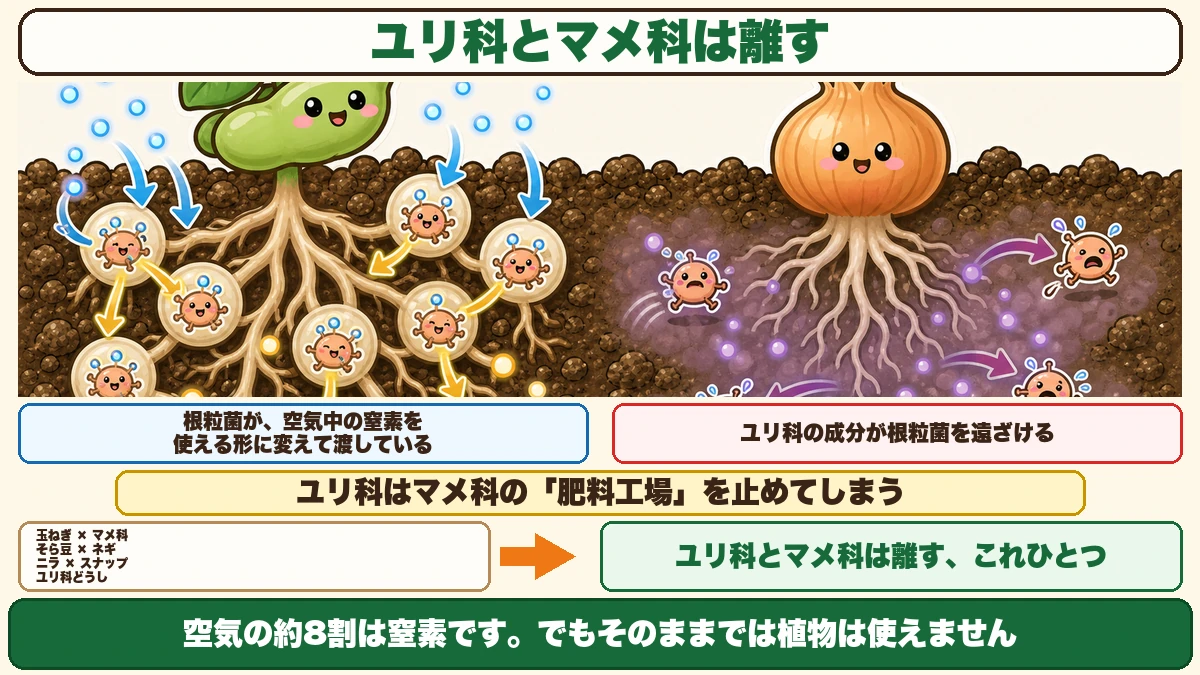
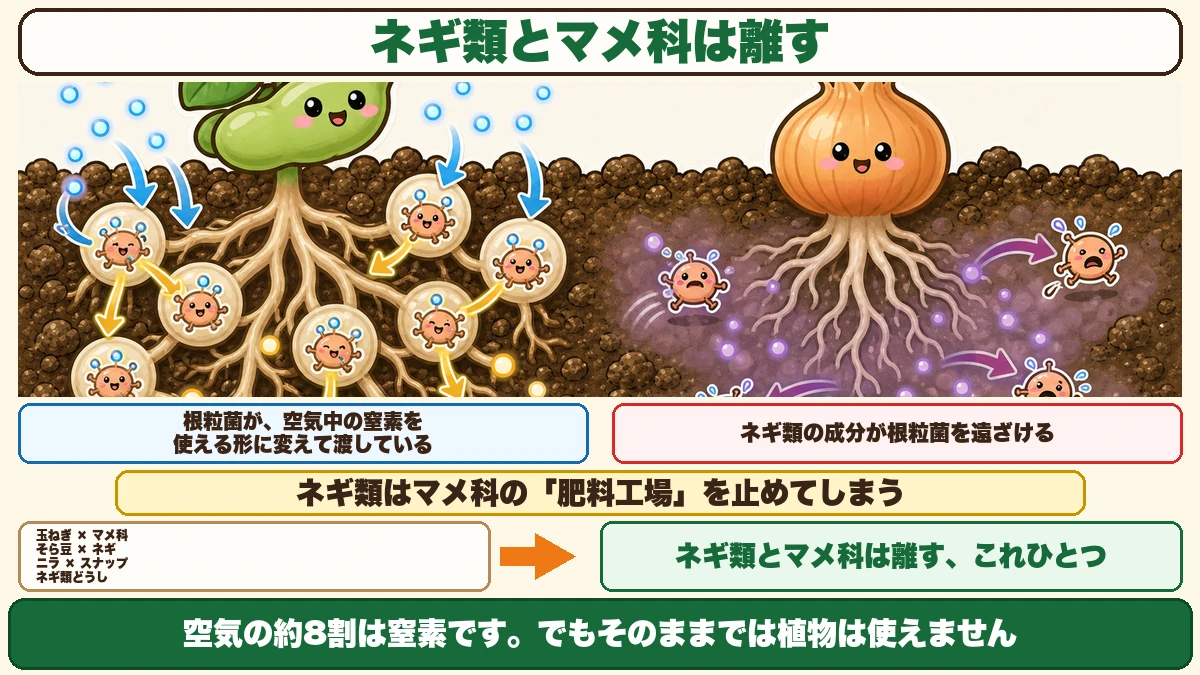
混植の図2枚を「ネギ類」に作り直して差し替え
本文は10/2に「ネギ類（ヒガンバナ科）」へ直したが、図の中は「ユリ科」のままだった。
Codexで2枚を作り直し、図解・ブログの4か所へ配った。

・混植_図1 … 4行目の右端「ユリ科どうしは…」→「ネギ類どうしは…」（1か所）
・混植_図2 … 大見出し／ピンク枠／黄色枠／左下の一覧／右下の緑枠（5か所）

★受け入れ前に目視と画素差分の両方で確認した
  - 図1：変わった画素は1か所だけ（x713〜771・y286〜306）
  - 図2：変わった画素は4か所だけ。絵・下の緑の帯・青い枠は1画素も変わっていない
  - 2倍に拡大して、直した行とほかの行の書体・太さ・大きさが揃っていることを確認
  - 文字高の実測も一致（18/18・12/12・44/44・21/21px）

図が直ったので、食い違いを説明していた注意書きは不要になった。
「古い本ではユリ科」とだけ残す形に短くした（ブログ・図書館の原稿とも）。

diff --git a/articles/42-konshoku.html b/articles/42-konshoku.html
@@ -98,7 +98,7 @@
   <p>にんにくは、実はコンパニオンプランツとしてとても優秀な野菜です。植えるだけで土を消毒する働きがあると言われていて、多くの野菜と相性が良いです。</p>
   <p>ところが、同じ仲間とは合いません。</p>
   <p>玉ねぎ、ねぎ、にんにく、にら。これらは全部<strong>ネギ類（ヒガンバナ科）です</strong>。<strong>ネギ類どうしは、混植も連作も嫌います</strong>。</p>
-  <p style="background:#FFF8E1;border-left:4px solid #F0A500;padding:.8em 1em;border-radius:6px;">※この仲間は、古い本では「ユリ科」と書かれています。いまの分類ではヒガンバナ科で、この記事の図の中の「ユリ科」も同じものを指しています。</p>
+  <p style="background:#FFF8E1;border-left:4px solid #F0A500;padding:.8em 1em;border-radius:6px;">※この仲間は、古い本では「ユリ科」と書かれています。いまの分類（APG）ではヒガンバナ科で、指しているものは同じです。</p>
   <p>理由は、<strong>ネギ類</strong>特有の成分が出て、それが同じネギ類の生育を邪魔するからだと言われています。</p>
   <p>だから、玉ねぎの跡地にんにくを植えるのは避けてください。</p>
   <h3>⑤にんにく × 春キャベツ</h3>
